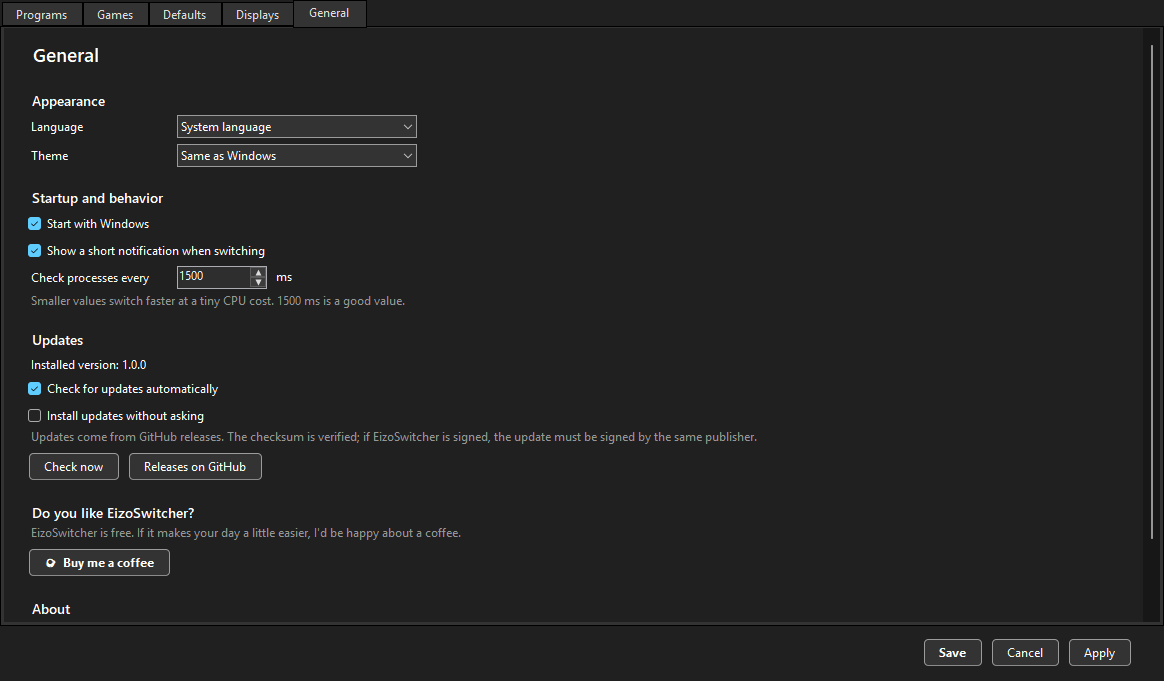
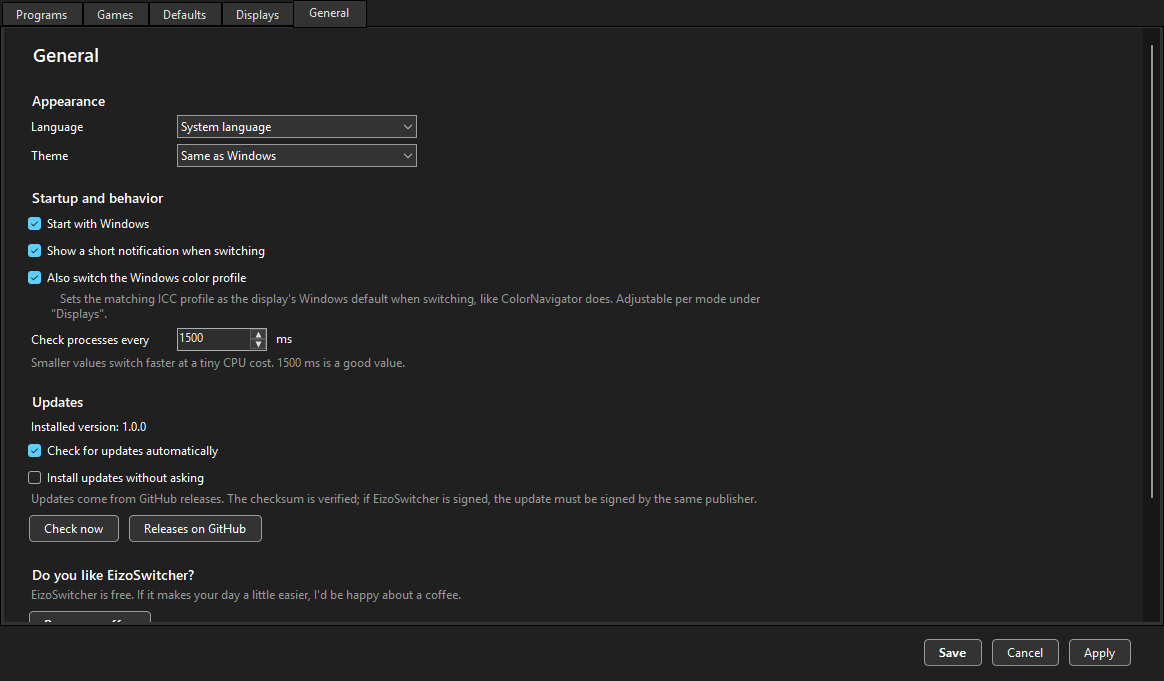
Switch the Windows color profile together with the color mode
Without ColorNavigator running, Windows kept the old ICC profile after a
mode switch, so color-managed apps used the wrong profile.

- After every mode switch (rules, tray menu, displays tab) the matching
  ICC profile becomes the current user's default for that display
  (WcsAssociateColorProfileWithDevice / WcsSetDefaultColorProfile)
- "Automatic" uses the profile ColorNavigator created per mode
  ("{Model}({Serial}){index+1:00}{name}.icc"); any installed profile or
  "leave unchanged" can be chosen per mode under Displays
- Global switch under General; translations for all languages
- Screenshot mode masks serial numbers in profile names too

Changed region(s): [[0.0, 0.37, 0.6495, 0.9251]]

diff --git a/src/EizoSwitcher/UI/SettingsForm.cs b/src/EizoSwitcher/UI/SettingsForm.cs
@@ -18,6 +18,8 @@ internal sealed class SettingsForm : Form
     private DataGridView grid_ = new();
     private readonly Dictionary<string, ComboBox> defaultBoxes_ = [];
     private readonly Dictionary<string, ComboBox> gameBoxes_ = [];
+    private readonly Dictionary<(string Id, string Mode), ComboBox> profileBoxes_ = [];
+    private CheckBox profiles_ = null!;
     private CheckBox gamesEnabled_ = null!, gExclusive_ = null!, gBorderless_ = null!, gWinList_ = null!, gLibraries_ = null!;
     private ListBox extraFolders_ = null!;
     private TextBox exclusions_ = null!;
@@ -408,8 +410,33 @@ internal sealed class SettingsForm : Form
 
     // ================================================================= Displays
 
+    private List<(string Mode, ComboBox Box)> ProfileLines(DisplayInfo d)
+    {
+        var installed = ColorProfiles.Installed();
+        var map = work_.ColorProfiles.GetValueOrDefault(d.Id);
+        var lines = new List<(string, ComboBox)>();
+        for (int i = 0; i < d.Eizo!.Modes.Count; i++)
+        {
+            string mode = d.Eizo.Modes[i];
+            string prefix = $"{d.Eizo.Model}({d.Eizo.Serial}){i + 1:00}";
+            string? cn = installed.FirstOrDefault(f => f.StartsWith(prefix, StringComparison.OrdinalIgnoreCase));
+            var opts = new List<Opt>
+            {
+                new("", cn != null ? L.T("Automatisch: {0}", "Automatic: {0}", Ui.Mask(cn, d.Serial))
+                                   : L.T("Automatisch (kein ColorNavigator-Profil gefunden)", "Automatic (no ColorNavigator profile found)")),
+                new(ColorProfiles.Keep, L.T("Nicht ändern", "Leave unchanged")),
+            };
+            opts.AddRange(installed.Select(f => new Opt(f, Ui.Mask(f, d.Serial))));
+            var box = Ui.Combo(opts, map?.GetValueOrDefault(mode) ?? "", 420);
+            profileBoxes_[(d.Id, mode)] = box;
+            lines.Add((mode, box));
+        }
+        return lines;
+    }
+
     private Control DisplaysTab()
     {
+        profileBoxes_.Clear();
         var p = new PageBuilder();
         p.Span(Ui.Flow(new Label { Text = L.T("Bildschirme", "Displays"), Font = Ui.HeadingFont, AutoSize = true, Margin = new Padding(0, 0, 16, 6) },
                        Ui.Button(L.T("Neu einlesen", "Rescan"), () => tray_?.RefreshDisplays())))
@@ -427,6 +454,8 @@ internal sealed class SettingsForm : Form
                        Ui.Text($"{d.Width} × {d.Height}  @ {d.X}, {d.Y}{(d.Primary ? L.T("  (Hauptbildschirm)", "  (primary)") : "")}"));
             p.Line(L.T("EIZO-USB-Steuerung", "EIZO USB control"), Ui.Text(Yes(d.IsEizo)));
             p.Line(L.T("DDC/CI ausschalten", "DDC/CI power off"), Ui.Text(Yes(d.SupportsPower)));
+            if (d.MonitorDeviceId.Length > 0)
+                p.Line(L.T("Windows-Farbprofil", "Windows color profile"), Ui.Text(Ui.Mask(ColorProfiles.GetDefault(d.MonitorDeviceId) ?? "—", d.Serial)));
 
             var actions = Ui.Flow();
             if (d.Eizo != null)
@@ -440,6 +469,7 @@ internal sealed class SettingsForm : Form
                     Task.Run(() => displays_.SetMode(d, i)).ContinueWith(_ => BeginInvoke(() => { Collect(); BuildTabs(); }));
                 }));
             }
+            var profileLines = d.Eizo != null && d.MonitorDeviceId.Length > 0 ? ProfileLines(d) : [];
             if (d.Width > 0 && tray_ != null)
             {
                 actions.Controls.Add(Ui.Button(L.T("3 s schwarz testen", "Test black (3 s)"), () =>
@@ -454,6 +484,13 @@ internal sealed class SettingsForm : Form
                     Task.Run(() => { displays_.SetPower(d, false); Thread.Sleep(5000); displays_.SetPower(d, true); })));
             }
             p.Span(actions);
+
+            if (profileLines.Count > 0)
+            {
+                p.Hint(L.T("Farbprofil je Modus – wird beim Umschalten als Windows-Standardprofil dieses Bildschirms gesetzt:",
+                           "Color profile per mode – set as this display's Windows default profile when switching:"));
+                foreach (var (mode, box) in profileLines) p.Line(mode, box);
+            }
         }
 
         foreach (var k in work_.Displays.Where(k => displays_.Displays.All(d => d.Id != k.Id)))
@@ -482,8 +519,11 @@ internal sealed class SettingsForm : Form
         autostart_ = Ui.Check(L.T("Mit Windows starten", "Start with Windows"), work_.StartWithWindows);
         notify_ = Ui.Check(L.T("Beim Umschalten kurz benachrichtigen", "Show a short notification when switching"), work_.ShowNotifications);
         poll_ = new NumericUpDown { Minimum = 250, Maximum = 10000, Increment = 250, Value = Math.Clamp(work_.PollIntervalMs, 250, 10000), Width = 90, Margin = new Padding(0, 3, 6, 3) };
+        profiles_ = Ui.Check(L.T("Windows-Farbprofil mitschalten", "Also switch the Windows color profile"), work_.SwitchColorProfiles);
         p.Section(L.T("Start und Verhalten", "Startup and behavior"))
-         .Span(autostart_).Span(notify_)
+         .Span(autostart_).Span(notify_).Span(profiles_)
+         .Hint(L.T("   Setzt beim Umschalten das passende ICC-Profil als Windows-Standard des Bildschirms, so wie ColorNavigator. Einstellbar je Modus unter „Bildschirme“.",
+                   "   Sets the matching ICC profile as the display's Windows default when switching, like ColorNavigator does. Adjustable per mode under \"Displays\"."), 20)
          .Line(L.T("Prozesse prüfen alle", "Check processes every"), Ui.Flow(poll_, Ui.Text("ms")))
          .Hint(L.T("Kleinere Werte schalten schneller um, kosten aber minimal mehr CPU. 1500 ms sind ein guter Wert.",
                    "Smaller values switch faster at a tiny CPU cost. 1500 ms is a good value."));
@@ -556,6 +596,15 @@ internal sealed class SettingsForm : Form
         }
         g.ExtraFolders = [.. extraFolders_.Items.Cast<string>()];
         g.ExcludedProcesses = [.. exclusions_.Text.Split('\n', StringSplitOptions.RemoveEmptyEntries | StringSplitOptions.TrimEntries).Distinct(StringComparer.OrdinalIgnoreCase)];
+
+        foreach (var ((id, mode), box) in profileBoxes_)
+        {
+            string t = Ui.Token(box);
+            if (!work_.ColorProfiles.TryGetValue(id, out var map)) work_.ColorProfiles[id] = map = [];
+            if (t.Length == 0) map.Remove(mode); else map[mode] = t;
+            if (map.Count == 0) work_.ColorProfiles.Remove(id);
+        }
+        work_.SwitchColorProfiles = profiles_.Checked;
 
         work_.StartWithWindows = autostart_.Checked;
         work_.ShowNotifications = notify_.Checked;

diff --git a/src/EizoSwitcher/Services/ColorProfiles.cs b/src/EizoSwitcher/Services/ColorProfiles.cs
@@ -1,0 +1,86 @@
+using System.Runtime.InteropServices;
+using System.Runtime.Versioning;
+using System.Text;
+
+namespace EizoSwitcher.Services;
+
+/// <summary>
+/// Windows display color profiles (ICC). ColorNavigator creates one profile per monitor and mode, named
+/// "{Model}({Serial}){mode index + 1:00}{mode name}.icc" (e.g. "CG279X(12345678)10CAL.icc") and makes it the
+/// current user's default for that display. EizoSwitcher does the same after switching a mode.
+/// </summary>
+[SupportedOSPlatform("windows")]
+public static class ColorProfiles
+{
+    /// <summary>Profile mapping value: do not touch the Windows profile for this mode.</summary>
+    public const string Keep = "@keep";
+
+    private const int ScopeCurrentUser = 1, CptIcc = 0, CpstNone = 4;
+    private const uint ClassMonitor = 0x6D6E7472; // 'mntr'
+
+    [DllImport("mscms.dll", CharSet = CharSet.Unicode, SetLastError = true)]
+    private static extern bool WcsAssociateColorProfileWithDevice(int scope, string profile, string device);
+    [DllImport("mscms.dll", CharSet = CharSet.Unicode, SetLastError = true)]
+    private static extern bool WcsSetDefaultColorProfile(int scope, string device, int cpt, int cpst, uint id, string profile);
+    [DllImport("mscms.dll", CharSet = CharSet.Unicode, SetLastError = true)]
+    private static extern bool WcsGetDefaultColorProfileSize(int scope, string device, int cpt, int cpst, uint id, out uint size);
+    [DllImport("mscms.dll", CharSet = CharSet.Unicode, SetLastError = true)]
+    private static extern bool WcsGetDefaultColorProfile(int scope, string device, int cpt, int cpst, uint id, uint size, StringBuilder name);
+    [DllImport("mscms.dll", CharSet = CharSet.Unicode, SetLastError = true)]
+    private static extern bool WcsSetUsePerUserProfiles(string device, uint deviceClass, bool usePerUser);
+
+    public static string Folder => Path.Combine(Environment.GetFolderPath(Environment.SpecialFolder.System), @"spool\drivers\color");
+
+    /// <summary>Installed display profiles (file names).</summary>
+    public static List<string> Installed()
+    {
+        try
+        {
+            return [.. Directory.EnumerateFiles(Folder)
+                .Where(f => f.EndsWith(".icc", StringComparison.OrdinalIgnoreCase) || f.EndsWith(".icm", StringComparison.OrdinalIgnoreCase))
+                .Select(f => Path.GetFileName(f)!)
+                .Order(StringComparer.OrdinalIgnoreCase)];
+        }
+        catch (Exception e) when (e is IOException or UnauthorizedAccessException) { return []; }
+    }
+
+    /// <summary>The profile ColorNavigator created for this monitor and mode, if any.</summary>
+    public static string? FromColorNavigator(string model, string serial, int modeIndex)
+    {
+        if (model.Length == 0 || serial.Length == 0 || modeIndex < 0) return null;
+        string prefix = $"{model}({serial}){modeIndex + 1:00}";
+        return Installed().FirstOrDefault(f => f.StartsWith(prefix, StringComparison.OrdinalIgnoreCase));
+    }
+
+    /// <summary>Which profile to use: explicit mapping, else ColorNavigator's; null = leave unchanged.</summary>
+    public static string? For(AppSettings s, DisplayInfo d, int modeIndex)
+    {
+        if (!s.SwitchColorProfiles || d.Eizo == null || modeIndex < 0 || modeIndex >= d.Eizo.Modes.Count) return null;
+        string mode = d.Eizo.Modes[modeIndex];
+        if (s.ColorProfiles.TryGetValue(d.Id, out var map) && map.TryGetValue(mode, out var chosen) && chosen.Length > 0)
+            return chosen == Keep ? null : chosen;
+        return FromColorNavigator(d.Eizo.Model, d.Eizo.Serial, modeIndex);
+    }
+
+    /// <summary>Current user's default profile of a display (null if none / unknown).</summary>
+    public static string? GetDefault(string monitorDeviceId)
+    {
+        if (monitorDeviceId.Length == 0 || !WcsGetDefaultColorProfileSize(ScopeCurrentUser, monitorDeviceId, CptIcc, CpstNone, 0, out uint size)) return null;
+        var sb = new StringBuilder((int)size / 2 + 1);
+        return WcsGetDefaultColorProfile(ScopeCurrentUser, monitorDeviceId, CptIcc, CpstNone, 0, size, sb) ? sb.ToString() : null;
+    }
+
+    /// <summary>Makes <paramref name="profile"/> the current user's default profile of the display.</summary>
+    public static bool SetDefault(string monitorDeviceId, string profile, out bool changed)
+    {
+        changed = false;
+        if (monitorDeviceId.Length == 0) return false;
+        if (string.Equals(GetDefault(monitorDeviceId), profile, StringComparison.OrdinalIgnoreCase)) return true;
+        changed = true;
+        bool ok = WcsAssociateColorProfileWithDevice(ScopeCurrentUser, profile, monitorDeviceId)
+               && WcsSetUsePerUserProfiles(monitorDeviceId, ClassMonitor, true)
+               && WcsSetDefaultColorProfile(ScopeCurrentUser, monitorDeviceId, CptIcc, CpstNone, 0, profile);
+        if (!ok) Log.Write($"Setting color profile \"{profile}\" failed (error {Marshal.GetLastWin32Error()})");
+        return ok;
+    }
+}

diff --git a/src/EizoSwitcher/Services/Displays.cs b/src/EizoSwitcher/Services/Displays.cs
@@ -13,6 +13,8 @@ public sealed record DisplayInfo(
     public MonitorState? Eizo { get; init; }
     /// <summary>Filled in by <see cref="DisplayService"/>: monitor answers DDC/CI power commands.</summary>
     public bool SupportsPower { get; init; }
+    /// <summary>Windows monitor device id ("MONITOR\ENC3041\{…}\0002"), used for color profiles.</summary>
+    public string MonitorDeviceId { get; init; } = "";
 
     public bool IsEizo => Eizo != null;
 }
@@ -66,12 +68,23 @@ public sealed class DisplayService : IDisposable
         return ok;
     }
 
+    /// <summary>Which Windows color profile belongs to a display's mode (null = leave unchanged). Set by the app.</summary>
+    public Func<DisplayInfo, int, string?>? ProfileFor { get; set; }
+
     public bool SetMode(DisplayInfo d, int index)
     {
         if (d.Eizo == null || !Eizo.SetMode(d.Eizo.Serial, index)) return false;
         PollEizo();
+        ApplyProfile(d, index);
         Changed?.Invoke();
         return true;
+    }
+
+    /// <summary>Makes the color profile of the given mode the display's Windows default (if one is configured/found).</summary>
+    public void ApplyProfile(DisplayInfo d, int index)
+    {
+        if (ProfileFor?.Invoke(d, index) is { } profile && ColorProfiles.SetDefault(d.MonitorDeviceId, profile, out bool changed) && changed)
+            Log.Write($"{d.Name}: color profile {profile}");
     }
 
     /// <summary>DDC/CI VCP 0xD6 (power mode): 1 = on, 4 = off (DPM off, wakes up via DDC).</summary>
@@ -115,7 +128,7 @@ public sealed class DisplayService : IDisposable
         {
             var dd = new Win32.DISPLAY_DEVICE { cb = System.Runtime.InteropServices.Marshal.SizeOf<Win32.DISPLAY_DEVICE>() };
             Edid? edid = null;
-            string instance = device;
+            string instance = device, monitorId = "";
             // EDD_GET_DEVICE_INTERFACE_NAME: DeviceID = \\?\DISPLAY#ENC3041#5&...&UID33027#{guid}
             for (uint i = 0; Win32.EnumDisplayDevices(device, i, ref dd, 1); i++)
             {
@@ -124,13 +137,17 @@ public sealed class DisplayService : IDisposable
                 if (parts.Length < 3) continue;
                 instance = $@"DISPLAY\{parts[1]}\{parts[2]}";
                 edid = Edid.FromRegistry(instance);
+                // same monitor without the flag: DeviceID = MONITOR\ENC3041\{class guid}\0002 (color management id)
+                var plain = new Win32.DISPLAY_DEVICE { cb = dd.cb };
+                if (Win32.EnumDisplayDevices(device, i, ref plain, 0)) monitorId = plain.DeviceID;
                 break;
             }
 
             string name = edid?.Name ?? device.TrimStart('\\', '.');
             string serial = edid?.SerialText ?? "";
             string id = serial.Length > 0 ? serial : edid != null ? $"{edid.Manufacturer}{edid.ProductCode:X4}-{edid.SerialNumber}" : instance;
-            result.Add(new DisplayInfo(id, name, Vendor(edid?.Manufacturer), serial, device, r.Left, r.Top, r.Right - r.Left, r.Bottom - r.Top, primary));
+            result.Add(new DisplayInfo(id, name, Vendor(edid?.Manufacturer), serial, device, r.Left, r.Top, r.Right - r.Left, r.Bottom - r.Top, primary)
+                { MonitorDeviceId = monitorId });
         }
         return result;
     }

diff --git a/src/EizoSwitcher/Services/AppSettings.cs b/src/EizoSwitcher/Services/AppSettings.cs
@@ -84,6 +84,10 @@ public sealed class AppSettings
     public string Language { get; set; } = "";
     /// <summary>"light", "dark" or empty = follow Windows.</summary>
     public string Theme { get; set; } = "";
+    /// <summary>Also switch the Windows color profile (ICC) of the display together with the mode.</summary>
+    public bool SwitchColorProfiles { get; set; } = true;
+    /// <summary>Display id -> mode name -> profile file name ("@keep" = leave unchanged); missing = ColorNavigator's profile.</summary>
+    public Dictionary<string, Dictionary<string, string>> ColorProfiles { get; set; } = [];
     /// <summary>Display id -> mode used when no rule and no game is active.</summary>
     public Dictionary<string, string> Defaults { get; set; } = [];
     public List<ProcessRule> Rules { get; set; } = [];

diff --git a/src/EizoSwitcher/UI/Ui.cs b/src/EizoSwitcher/UI/Ui.cs
@@ -17,6 +17,17 @@ internal static class Ui
 
     public static string Serial(string serial) => Demo && serial.Length > 0 ? "12345678" : serial;
 
+    /// <summary>Screenshot mode: replaces a serial number inside other text (e.g. profile file names).</summary>
+    public static string Mask(string text, string serial)
+    {
+        if (!Demo) return text;
+        foreach (var s in DemoSerials.Append(serial).Where(s => s.Length > 0)) text = text.Replace(s, "12345678");
+        return text;
+    }
+
+    /// <summary>Screenshot mode: all serial numbers that must not appear anywhere.</summary>
+    public static List<string> DemoSerials { get; } = [];
+
     public static Icon AppIcon(Size size)
     {
         using var s = typeof(Ui).Assembly.GetManifestResourceStream("EizoSwitcher.ico")!;

diff --git a/src/EizoSwitcher/Services/SwitchEngine.cs b/src/EizoSwitcher/Services/SwitchEngine.cs
@@ -169,7 +169,11 @@ public sealed class SwitchEngine : IDisposable
                     Log.Write($"{d.Name}: mode \"{action}\" does not exist (available: {string.Join(", ", d.Eizo.Modes)})");
                     return true;
                 }
-                if (d.Eizo.CurrentMode == index) return true;
+                if (d.Eizo.CurrentMode == index)
+                {
+                    displays_.ApplyProfile(d, index); // mode already right – make sure the profile is too
+                    return true;
+                }
                 if (!displays_.SetMode(d, index))
                 {
                     Log.Write($"{d.Name}: switching to \"{action}\" failed, retrying");

diff --git a/src/EizoSwitcher/UI/TrayApp.cs b/src/EizoSwitcher/UI/TrayApp.cs
@@ -24,6 +24,7 @@ internal sealed class TrayApp : ApplicationContext, IBlackout
         settings_ = settings;
         Log.Write($"EizoSwitcher {Updater.Current} started");
 
+        displays_.ProfileFor = (d, index) => ColorProfiles.For(settings_, d, index);
         engine_ = new SwitchEngine(displays_, this, settings_);
         engine_.Switched += msg => Ui(() => { if (settings_.ShowNotifications) Notify(msg); });
         engine_.StateChanged += () => Ui(UpdateTooltip);

diff --git a/src/EizoSwitcher/UI/Screenshots.cs b/src/EizoSwitcher/UI/Screenshots.cs
@@ -16,6 +16,7 @@ internal static class Screenshots
         Directory.CreateDirectory(dir);
         using var displays = new DisplayService();
         displays.Refresh();
+        Ui.DemoSerials.AddRange(displays.Displays.Select(d => d.Serial));
 
         using var form = new SettingsForm(DemoSettings(displays), displays, new GameDetector(), null)
         {

diff --git a/README.md b/README.md
@@ -36,6 +36,7 @@ ColorNavigator can switch modes – but only when *you* click. There is no "when
 - **Real EIZO color modes over USB** – it reads the mode names straight from the monitor (User, BT.709, sRGB, CAL, …). ColorNavigator can stay installed, but doesn't have to.
 - **Every display, any brand** – displays without EIZO USB control can be blanked **black** (works with any monitor) or **turned off** via DDC/CI. Perfect for gaming without a bright second screen in the corner of your eye.
 - **Game detection** – DirectX fullscreen, borderless fullscreen, the Windows game list and your Steam / Epic / GOG / Ubisoft / EA / Xbox libraries.
+- **Windows color profile included** – together with the mode, EizoSwitcher sets the matching ICC profile as the display's Windows default, so Photoshop & co. color-manage correctly. It uses the profiles ColorNavigator created per mode, or any profile you pick.
 - **Back to normal** – close the program and your defaults apply again. If you change a mode by hand on the monitor, EizoSwitcher respects it until the next program starts or ends.
 - **Lives in the tray** – current mode per display at a glance, manual switching, pause.
 - **Updates itself** from GitHub releases (checksum-verified, signature-checked once releases are signed).
@@ -97,6 +98,8 @@ The mode each EIZO returns to when none of your programs and no game is running.
 
 Everything EizoSwitcher knows about your displays, plus buttons to switch by hand and to test *Black* and *Turn off*.
 
+For EIZO displays you also choose the **color profile per mode** here. *Automatic* picks the profile ColorNavigator created for that mode (e.g. `CG279X(12345678)10CAL.icc`); you can also select any installed profile or *Leave unchanged*. The whole feature can be turned off under *General*.
+
 ### 5. General
 
 Language, light/dark theme, autostart, notifications, updates.
@@ -156,7 +159,7 @@ eizoswitch list --json                 machine-readable output
 
 - **"No EIZO monitor found"** – check the USB cable between the monitor's USB upstream port and the PC. ColorNavigator isn't required, but may keep running.
 - **"Turn off" isn't offered** – the display doesn't answer DDC/CI, or DDC/CI is disabled in its menu. Use *Black* instead.
-- **The Windows color profile doesn't change** – ColorNavigator also switches the Windows ICC profile together with the mode; EizoSwitcher currently only switches the monitor. If ColorNavigator runs in parallel, it picks up the change itself.
+- **The Windows color profile doesn't change** – check *General → Also switch the Windows color profile* and the profile per mode under *Displays*. "Automatic" needs the profiles ColorNavigator creates – if a mode was never used with ColorNavigator, pick a profile by hand.
 - **Updates fail** – EizoSwitcher needs to live in a folder you can write to (see Installation). The release page opens so you can update by hand.
 - Anything else: *General → Show log*, then [open an issue](https://github.com/s1nn3r/EizoSwitcher/issues) – I'm happy to help.
 
